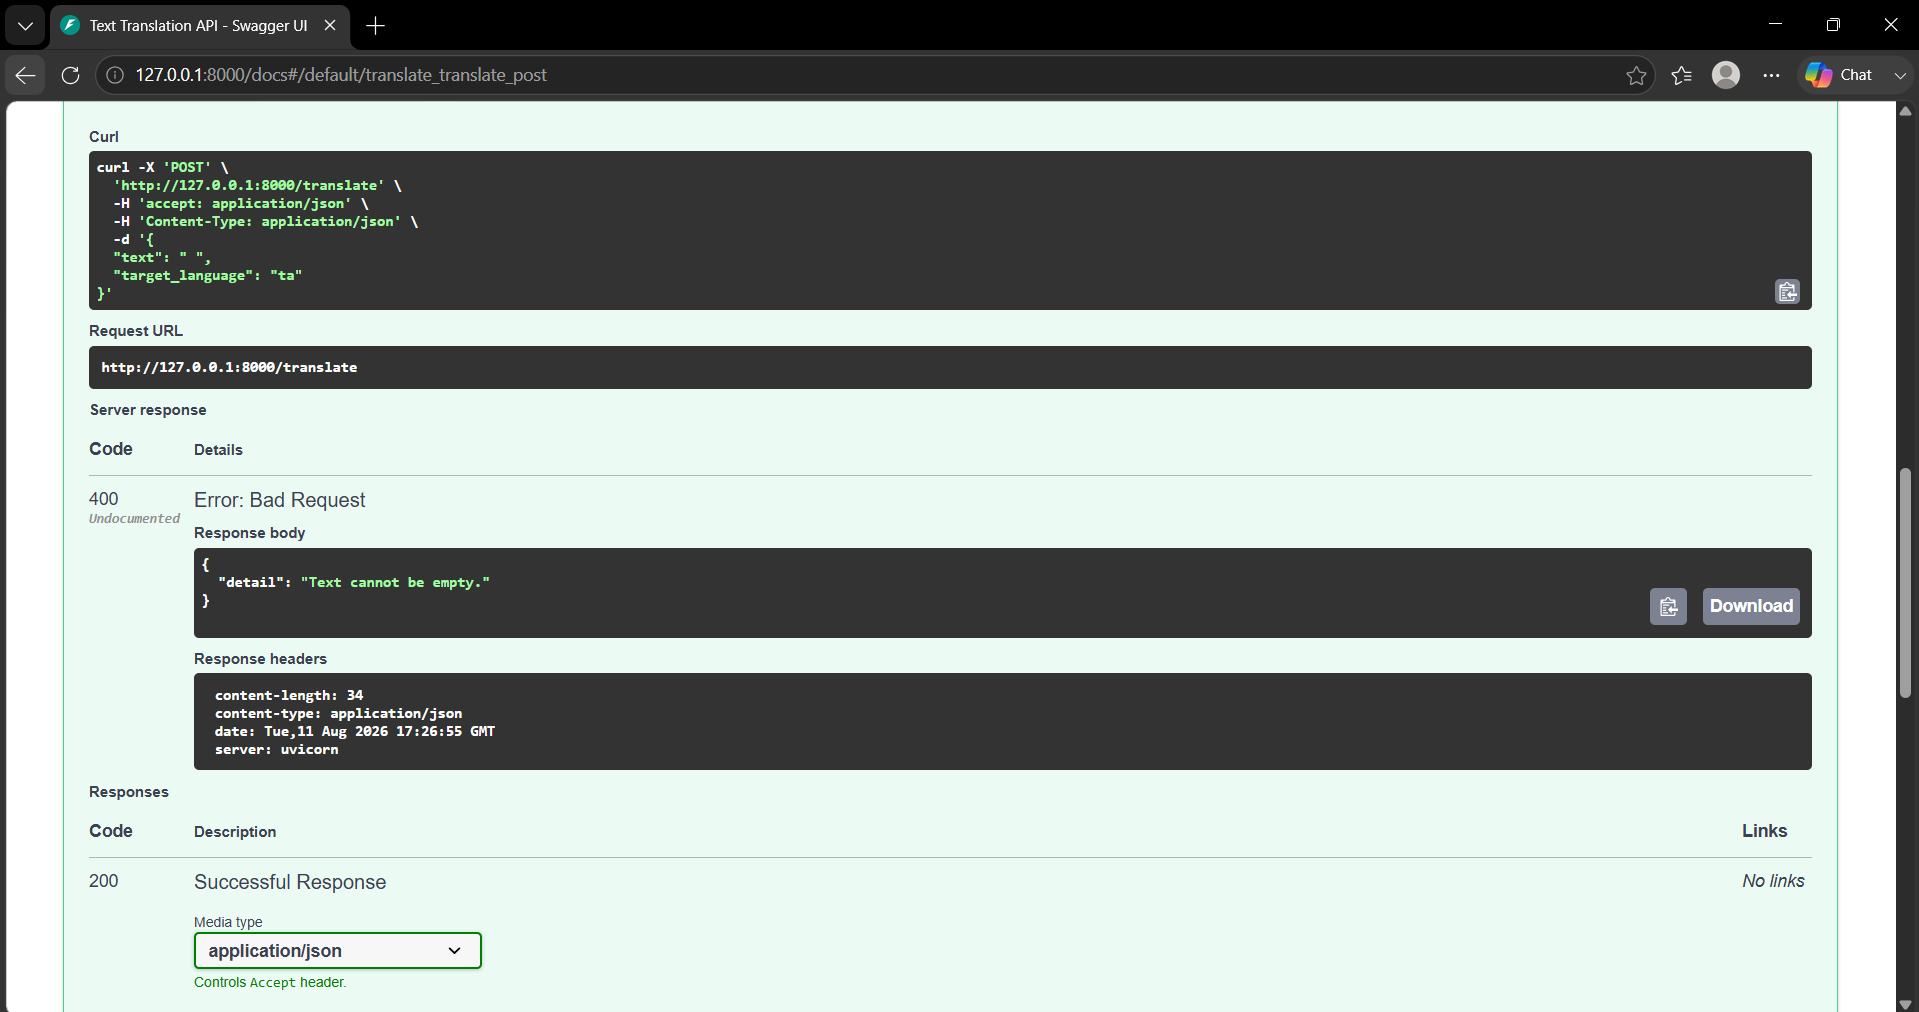
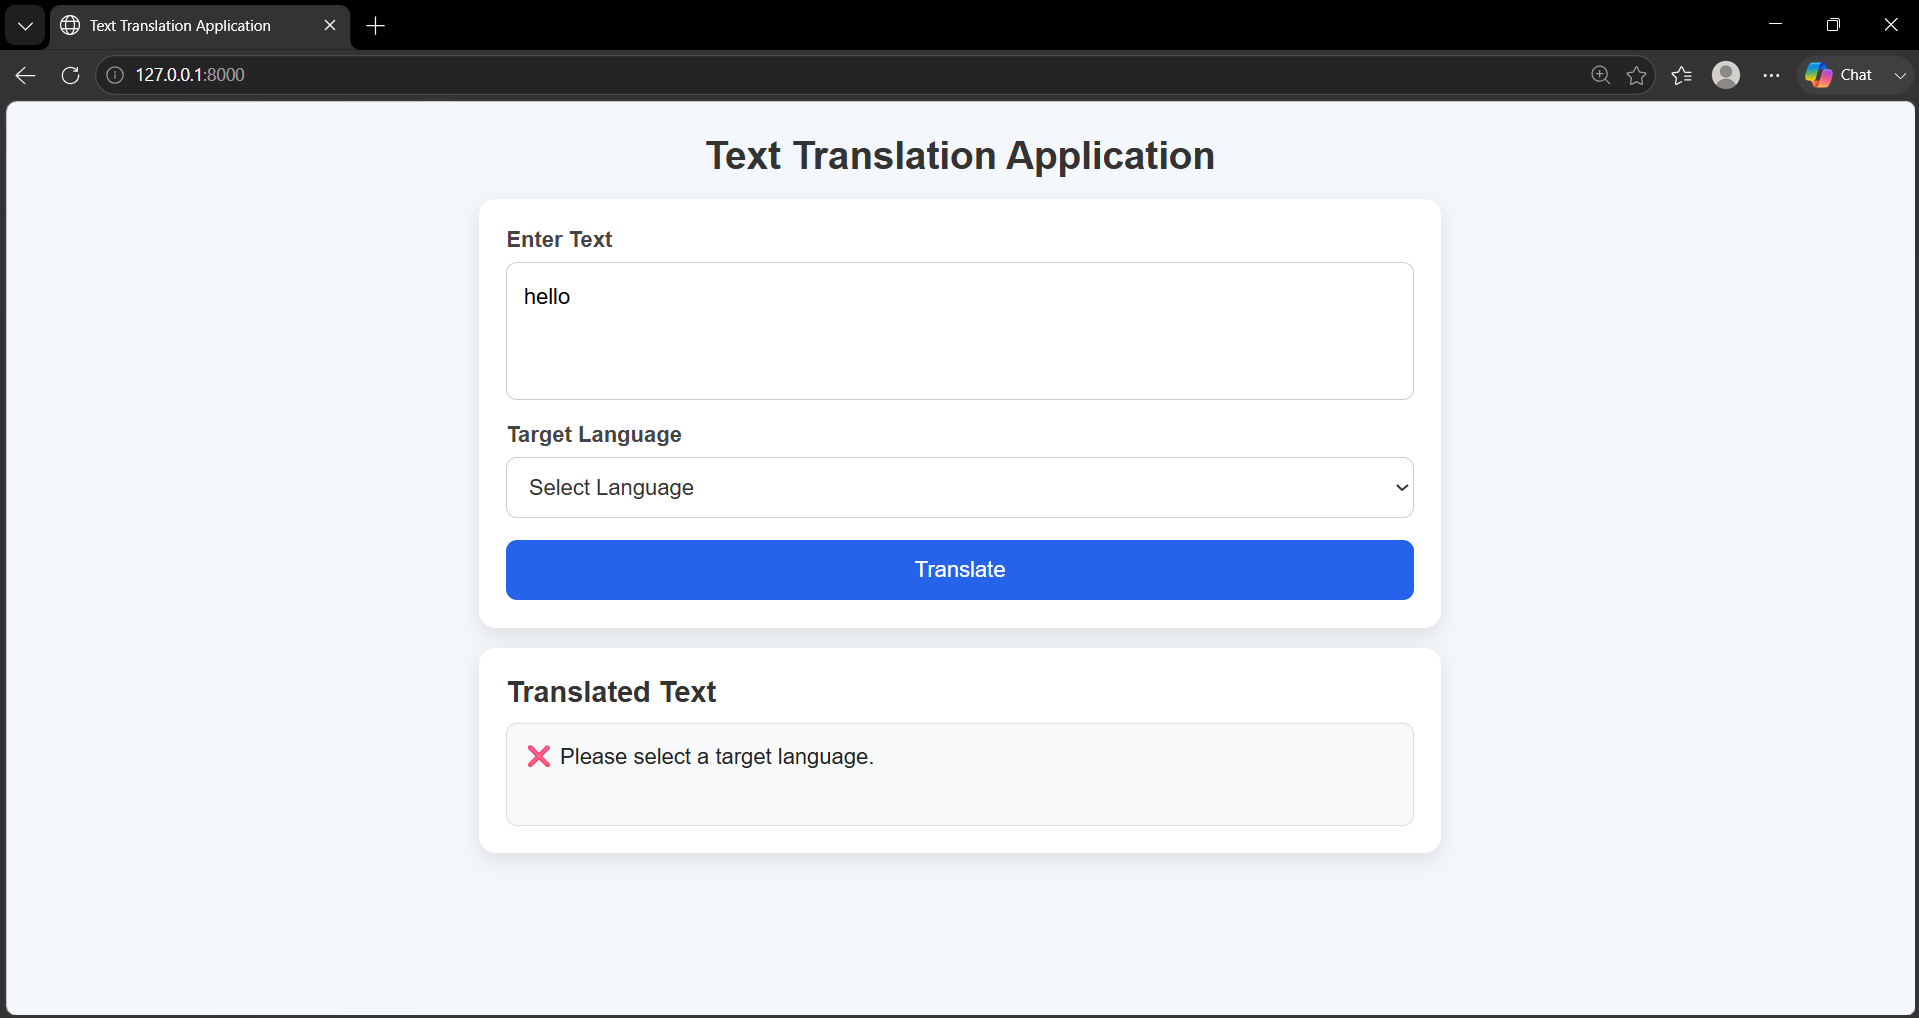
Finalize translation POC UI and validation

diff --git a/static/script.js b/static/script.js
@@ -1,0 +1,131 @@
+const translateBtn = document.getElementById("translateBtn");
+const textInput = document.getElementById("text");
+const languageInput = document.getElementById("language");
+const resultBox = document.getElementById("result");
+
+// Load supported languages into dropdown
+async function loadLanguages() {
+    try {
+        const response = await fetch("/languages");
+
+        if (!response.ok) {
+            throw new Error(`HTTP error: ${response.status}`);
+        }
+
+        const data = await response.json();
+
+        console.log("Languages API response:", data);
+
+        // Clear dropdown
+        languageInput.innerHTML =
+            '<option value="">Select Language</option>';
+
+        /*
+         * Expected backend response:
+         * {
+         *   "english": "en",
+         *   "tamil": "ta",
+         *   "hindi": "hi"
+         * }
+         */
+
+        let languages = data;
+
+        // If backend returns { "languages": {...} }
+        if (data.languages) {
+            languages = data.languages;
+        }
+
+        // Convert object to array and sort alphabetically
+        const languageList = Object.entries(languages).sort(
+            ([nameA], [nameB]) =>
+                nameA.localeCompare(nameB)
+        );
+
+        // Add languages
+        languageList.forEach(([name, code]) => {
+            const option = document.createElement("option");
+
+            option.value = code;
+            option.textContent =
+                `${name.charAt(0).toUpperCase() + name.slice(1)} (${code})`;
+
+            languageInput.appendChild(option);
+        });
+
+        console.log(
+            `${languageList.length} languages loaded successfully.`
+        );
+
+    } catch (error) {
+        console.error("Unable to load languages:", error);
+
+        languageInput.innerHTML =
+            '<option value="">Unable to load languages</option>';
+    }
+}
+
+// Load languages when page opens
+loadLanguages();
+
+
+// Translate button
+translateBtn.addEventListener("click", async () => {
+
+    const text = textInput.value.trim();
+    const targetLanguage = languageInput.value;
+
+    // Clear previous result
+    resultBox.textContent = "";
+
+    // Validate text
+    if (!text) {
+        resultBox.textContent = "❌ Please enter text.";
+        return;
+    }
+
+    // Validate language
+    if (!targetLanguage) {
+        resultBox.textContent =
+            "❌ Please select a target language.";
+        return;
+    }
+
+    // Loading message
+    resultBox.textContent = "⏳ Translating...";
+
+    try {
+
+        const response = await fetch("/translate", {
+            method: "POST",
+            headers: {
+                "Content-Type": "application/json"
+            },
+            body: JSON.stringify({
+                text: text,
+                target_language: targetLanguage
+            })
+        });
+
+        const data = await response.json();
+
+        if (response.ok) {
+
+            resultBox.textContent = data.translated_text;
+
+        } else {
+
+            resultBox.textContent =
+                "❌ " + (data.detail || "Translation failed.");
+
+        }
+
+    } catch (error) {
+
+        console.error("Translation error:", error);
+
+        resultBox.textContent =
+            "❌ Unable to connect to the translation service.";
+    }
+
+});

diff --git a/static/style.css b/static/style.css
@@ -1,0 +1,123 @@
+* {
+    margin: 0;
+    padding: 0;
+    box-sizing: border-box;
+    font-family: Arial, Helvetica, sans-serif;
+}
+
+body {
+    background: #f4f7fb;
+    display: flex;
+    justify-content: center;
+    align-items: flex-start;
+    min-height: 100vh;
+    padding: 25px 15px;
+}
+
+.container {
+    width: 100%;
+    max-width: 700px;
+}
+
+h1 {
+    text-align: center;
+    color: #333;
+    margin-bottom: 15px;
+    font-size: 28px;
+}
+
+.card,
+.result-card {
+    background: white;
+    padding: 20px;
+    border-radius: 12px;
+    box-shadow: 0 5px 15px rgba(0, 0, 0, 0.1);
+    margin-bottom: 15px;
+}
+
+.form-group {
+    margin-bottom: 16px;
+}
+
+label {
+    display: block;
+    margin-bottom: 7px;
+    font-weight: bold;
+    color: #444;
+}
+
+textarea {
+    width: 100%;
+    height: 100px;
+    padding: 12px;
+    border: 1px solid #ccc;
+    border-radius: 8px;
+    font-size: 16px;
+    display: block;
+    overflow-y: auto;
+    resize: none;
+    line-height: 1.5;
+}
+
+textarea:focus {
+    outline: none;
+    border-color: #2563eb;
+    box-shadow: 0 0 0 2px rgba(37, 99, 235, 0.1);
+}
+
+.language-group {
+    margin-bottom: 16px;
+}
+
+select {
+    width: 100%;
+    height: 44px;
+    padding: 0 12px;
+    border: 1px solid #ccc;
+    border-radius: 8px;
+    font-size: 16px;
+    background-color: white;
+    color: #333;
+    cursor: pointer;
+    display: block;
+}
+
+select:focus {
+    outline: none;
+    border-color: #2563eb;
+    box-shadow: 0 0 0 2px rgba(37, 99, 235, 0.1);
+}
+
+button {
+    width: 100%;
+    height: 44px;
+    padding: 0 14px;
+    border: none;
+    border-radius: 8px;
+    background: #2563eb;
+    color: white;
+    font-size: 16px;
+    cursor: pointer;
+    transition: 0.3s;
+    display: block;
+}
+
+button:hover {
+    background: #1d4ed8;
+}
+
+.result-card h2 {
+    color: #333;
+    margin-bottom: 10px;
+    font-size: 21px;
+}
+
+#result {
+    min-height: 75px;
+    background: #f8f9fa;
+    border: 1px solid #ddd;
+    border-radius: 8px;
+    padding: 12px;
+    white-space: pre-wrap;
+    color: #222;
+}

diff --git a/templates/index.html b/templates/index.html
@@ -1,0 +1,56 @@
+<!DOCTYPE html>
+<html lang="en">
+<head>
+    <meta charset="UTF-8">
+    <meta name="viewport" content="width=device-width, initial-scale=1.0">
+    <title>Text Translation Application</title>
+
+    <link rel="stylesheet" href="/static/style.css">
+</head>
+<body>
+
+    <div class="container">
+
+        <h1>Text Translation Application</h1>
+
+        <div class="card">
+
+            <div class="form-group">
+                <label for="text">Enter Text</label>
+
+                <textarea
+                    id="text"
+                    placeholder="Type your text here..."
+                ></textarea>
+            </div>
+
+            <div class="form-group language-group">
+                <label for="language">Target Language</label>
+
+                <select id="language">
+                    <option value="">Select Language</option>
+                </select>
+            </div>
+
+            <button id="translateBtn">
+                Translate
+            </button>
+
+        </div>
+
+        <div class="result-card">
+
+            <h2>Translated Text</h2>
+
+            <div id="result">
+                Your translated text will appear here...
+            </div>
+
+        </div>
+
+    </div>
+
+    <script src="/static/script.js"></script>
+
+</body>
+</html>

diff --git a/app/main.py b/app/main.py
@@ -1,6 +1,10 @@
-from fastapi import FastAPI
+from fastapi import FastAPI, Request
+from fastapi.responses import HTMLResponse
+from fastapi.staticfiles import StaticFiles
+from fastapi.templating import Jinja2Templates
 
 from app.routes import router
+
 
 app = FastAPI(
     title="Text Translation API",
@@ -8,10 +12,27 @@ app = FastAPI(
     version="1.0.0"
 )
 
+# Include API routes
 app.include_router(router)
 
+# Serve static files
+app.mount("/static", StaticFiles(directory="static"), name="static")
 
-@app.get("/")
+# Templates
+templates = Jinja2Templates(directory="templates")
+
+
+# Frontend Home Page
+@app.get("/", response_class=HTMLResponse)
+async def home(request: Request):
+    return templates.TemplateResponse(
+        request=request,
+        name="index.html"
+    )
+
+
+# Health Check
+@app.get("/health")
 def health():
     return {
         "status": "success",
